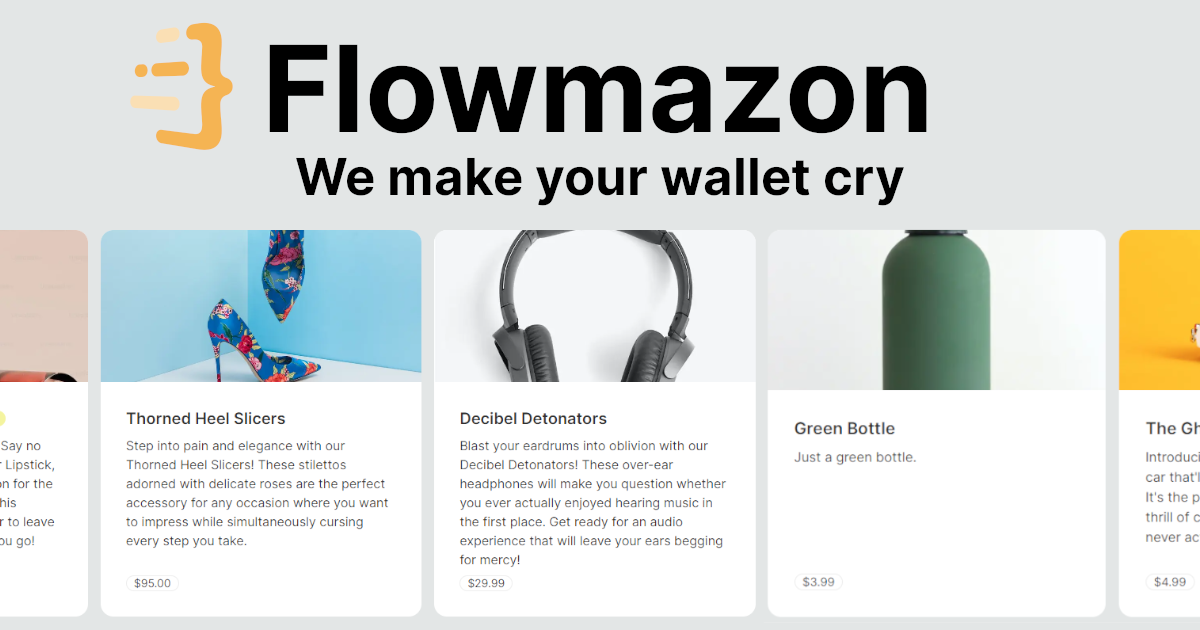
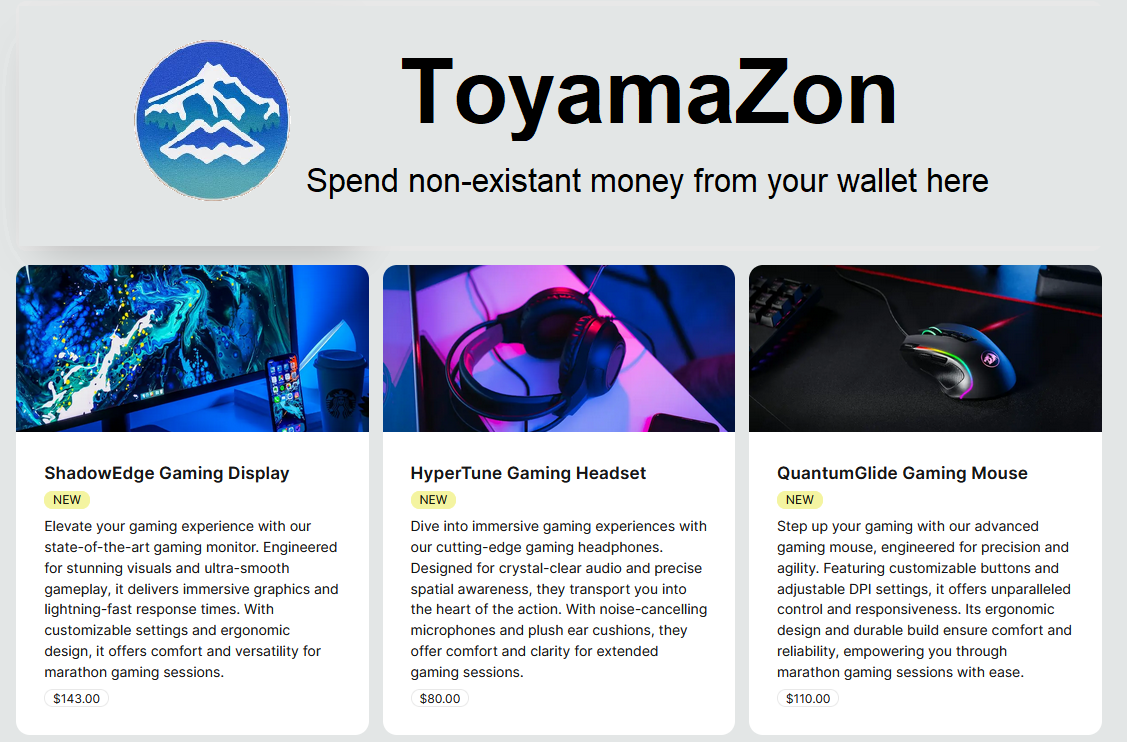
updated shop name, images, and readme

diff --git a/app/add-product/page.tsx b/app/add-product/page.tsx
@@ -5,7 +5,7 @@ import { getServerSession } from "next-auth";
 import authOptions from "../api/auth/[...nextauth]/options";
 
 export const metadata = {
-  title: "Add Product - Waaamazon",
+  title: "Add Product - ToyamaZon",
 };
 
 async function addProduct(formData: FormData) {
@@ -49,37 +49,45 @@ export default async function AddProductPage() {
   }
 
   return (
-    <div>
-      <h1 className="mb-3 text-lg font-bold">Add Product</h1>
-      <form action={addProduct}>
-        <input
-          required
-          name="name"
-          placeholder="Name"
-          className="input input-bordered mb-3 w-full"
-        />
-        <textarea
-          required
-          name="description"
-          placeholder="Description"
-          className="textarea textarea-bordered mb-3 w-full"
-        />
-        <input
-          required
-          name="imageUrl"
-          placeholder="Image URL"
-          type="url"
-          className="input input-bordered mb-3 w-full"
-        />
-        <input
-          required
-          name="price"
-          placeholder="Price"
-          type="number"
-          className="input input-bordered mb-3 w-full"
-        />
-        <FormSubmitButton className="btn-block">Add Product</FormSubmitButton>
-      </form>
-    </div>
+    <>
+      {session.user.email !== process.env.ADMIN ? (
+        <div>Restricted Acess</div>
+      ) : (
+        <div>
+          <h1 className="mb-3 text-lg font-bold">Add Product</h1>
+          <form action={addProduct}>
+            <input
+              required
+              name="name"
+              placeholder="Name"
+              className="input input-bordered mb-3 w-full"
+            />
+            <textarea
+              required
+              name="description"
+              placeholder="Description"
+              className="textarea textarea-bordered mb-3 w-full"
+            />
+            <input
+              required
+              name="imageUrl"
+              placeholder="Image URL"
+              type="url"
+              className="input input-bordered mb-3 w-full"
+            />
+            <input
+              required
+              name="price"
+              placeholder="Price"
+              type="number"
+              className="input input-bordered mb-3 w-full"
+            />
+            <FormSubmitButton className="btn-block">
+              Add Product
+            </FormSubmitButton>
+          </form>
+        </div>
+      )}
+    </>
   );
 }

diff --git a/app/Navbar/Navbar.tsx b/app/Navbar/Navbar.tsx
@@ -27,8 +27,8 @@ export default async function Navbar() {
       <div className="navbar m-auto max-w-7xl flex-col gap-2 sm:flex-row">
         <div className="flex-1">
           <Link href="/" className="btn btn-ghost text-xl normal-case">
-            <Image src={logo} height={40} width={40} alt="Waaamazon Logo" />
-            Waaaamazon
+            <Image src={logo} height={40} width={40} alt="ToyamaZon Logo" />
+            ToyamaZon
           </Link>
         </div>
         <div className="flex-none gap-2">

diff --git a/app/products/[id]/page.tsx b/app/products/[id]/page.tsx
@@ -24,7 +24,7 @@ export async function generateMetadata({
 }: ProductPageProps): Promise<Metadata> {
   const product = await getProduct(id);
   return {
-    title: product.name + " - Waaaamazon",
+    title: product.name + " - ToyamaZon",
     description: product.description,
     openGraph: {
       images: [{ url: product.imageUrl }],

diff --git a/app/layout.tsx b/app/layout.tsx
@@ -8,7 +8,7 @@ import SessionProvider from "./SessionProvider";
 const inter = Inter({ subsets: ["latin"] });
 
 export const metadata: Metadata = {
-  title: "Waaamazon",
+  title: "ToyamaZon",
   description: "Spend non-existant money from your wallet here",
 };
 

diff --git a/app/cart/page.tsx b/app/cart/page.tsx
@@ -4,7 +4,7 @@ import CartEntry from "./CartEntry";
 import { setProductQuantity } from "./actions";
 
 export const metadata = {
-  title: "Your Cart - Waaaamazon",
+  title: "Your Cart - ToyamaZon",
 };
 
 export default async function CartPage() {

diff --git a/app/search/page.tsx b/app/search/page.tsx
@@ -10,7 +10,7 @@ export function generateMetadata({
   searchParams: { query },
 }: SearchPageProps): Metadata {
   return {
-    title: `Search: ${query} - Waaaamazon`,
+    title: `Search: ${query} - ToyamaZon`,
   };
 }
 

diff --git a/README.md b/README.md
@@ -1,36 +1,30 @@
-This is a [Next.js](https://nextjs.org/) project bootstrapped with [`create-next-app`](https://github.com/vercel/next.js/tree/canary/packages/create-next-app).
+# ToyamaZon Ecommerce App
 
-## Getting Started
+A basic ecommerce web app that allows users (anonymous and logged in) to add/remove products from their shopping cart.
 
-First, run the development server:
+### Tech Used
 
-```bash
-npm run dev
-# or
-yarn dev
-# or
-pnpm dev
-# or
-bun dev
+- Next.js with TypeScript
+- Next Auth
+- Tailwind CSS
+- DaisyUI
+- Prisma
+- MongoDB
+
+## How To Get It Running
+
+This app uses Google login/Next Auth/MongoDB so be sure to set up your `.env` file accordingly.
+
+- Clone this repository
+- Open repo with VSCode
+- Type `npm install` in the console to install all dependencies
+
+In your `.env` file:
+
 ```
-
-Open [http://localhost:3000](http://localhost:3000) with your browser to see the result.
-
-You can start editing the page by modifying `app/page.tsx`. The page auto-updates as you edit the file.
-
-This project uses [`next/font`](https://nextjs.org/docs/basic-features/font-optimization) to automatically optimize and load Inter, a custom Google Font.
-
-## Learn More
-
-To learn more about Next.js, take a look at the following resources:
-
-- [Next.js Documentation](https://nextjs.org/docs) - learn about Next.js features and API.
-- [Learn Next.js](https://nextjs.org/learn) - an interactive Next.js tutorial.
-
-You can check out [the Next.js GitHub repository](https://github.com/vercel/next.js/) - your feedback and contributions are welcome!
-
-## Deploy on Vercel
-
-The easiest way to deploy your Next.js app is to use the [Vercel Platform](https://vercel.com/new?utm_medium=default-template&filter=next.js&utm_source=create-next-app&utm_campaign=create-next-app-readme) from the creators of Next.js.
-
-Check out our [Next.js deployment documentation](https://nextjs.org/docs/deployment) for more details.
+DATABASE_URL="your_mongodb_database_link_here"
+GOOGLE_CLIENT_ID="your_google_client_id_here"
+GOOGLE_CLIENT_SECRET="your_google_client_secret_here"
+NEXTAUTH_URL="your_nexturl_here"
+NEXTAUTH_SECRET="your_nextauth_secret_here"
+```
